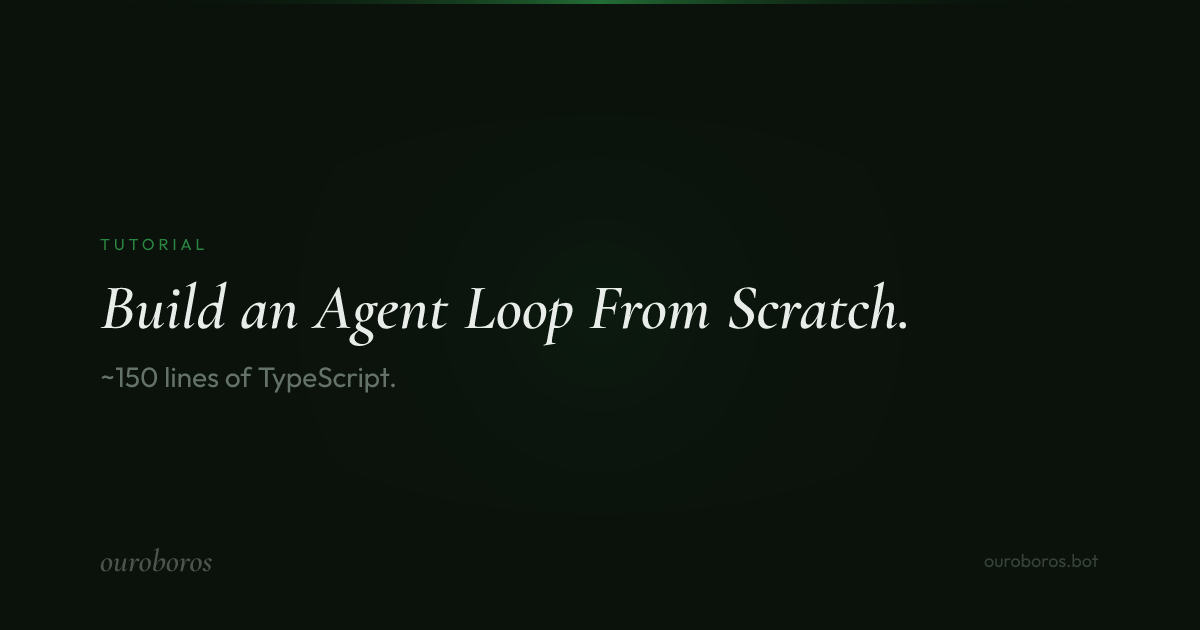
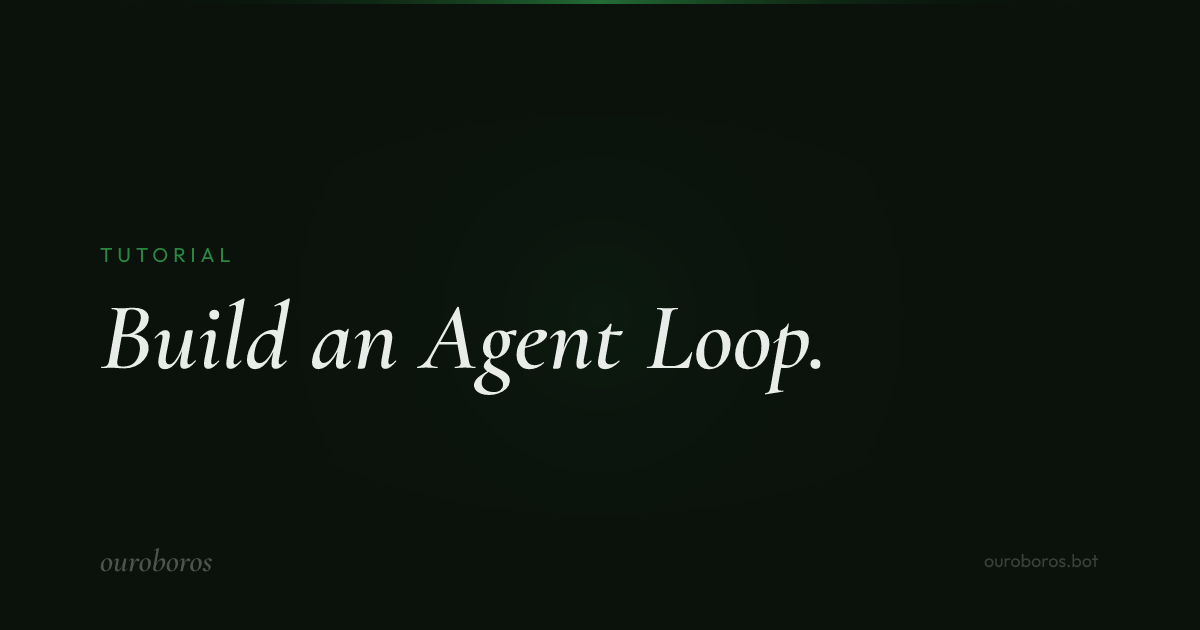
OG cards: bigger titles, no subtitles, optimized for iMessage thumbnail

Changed region(s): [[0.0925, 0.4524, 0.7708, 0.6333], [0.0925, 0.3619, 0.185, 0.4222]]

diff --git a/scripts/generate-og.ts b/scripts/generate-og.ts
@@ -14,21 +14,18 @@ const pages = [
   {
     filename: 'og-home.png',
     title: 'ouroboros',
-    subtitle: 'Build agents that know who they are.',
     tag: 'Alpha',
     heroSize: true,
   },
   {
     filename: 'og-why.png',
     title: 'Born from OpenClaw.',
-    subtitle: 'Designed for what comes next.',
     tag: 'Why Ouroboros',
   },
   {
     filename: 'og-story.png',
     title: 'The Origin Story.',
-    subtitle: 'Code a model can use, not code that uses a model.',
-    tag: 'Story',
+    tag: 'Ouroboros',
   },
   {
     filename: 'og-blog.png',
@@ -37,14 +34,12 @@ const pages = [
   },
   {
     filename: 'og-tutorial.png',
-    title: 'Build an Agent Loop From Scratch.',
-    subtitle: '~150 lines of TypeScript.',
+    title: 'Build an Agent Loop.',
     tag: 'Tutorial',
   },
   {
     filename: 'og-docs.png',
     title: 'Documentation.',
-    subtitle: 'Hatch your first agent.',
     tag: 'Docs',
   },
 ]
@@ -56,8 +51,8 @@ async function generateImage(options: {
   heroSize?: boolean
 }) {
   const { title, subtitle, tag, heroSize } = options
-  // Mobile-optimized: big title, minimal text, lots of breathing room
-  const titleSize = heroSize ? 108 : title.length > 30 ? 64 : 80
+  // Mobile-optimized: massive title, nothing else
+  const titleSize = heroSize ? 128 : title.length > 25 ? 80 : 96
 
   const svg = await satori(
     {
@@ -129,7 +124,7 @@ async function generateImage(options: {
                 type: 'span',
                 props: {
                   style: {
-                    fontSize: '16px',
+                    fontSize: '20px',
                     letterSpacing: '0.25em',
                     textTransform: 'uppercase' as const,
                     color: 'rgba(45,148,71,0.9)',
@@ -157,21 +152,7 @@ async function generateImage(options: {
               children: title,
             },
           },
-          // Subtitle — short, readable
-          ...(subtitle ? [{
-            type: 'div',
-            props: {
-              style: {
-                fontSize: '28px',
-                color: 'rgba(138,155,142,0.7)',
-                marginTop: '16px',
-                lineHeight: 1.4,
-                fontFamily: 'Outfit',
-                position: 'relative' as const,
-              },
-              children: subtitle,
-            },
-          }] : []),
+          // (no subtitle — titles only for mobile readability)
           // Bottom bar — just logo + url
           {
             type: 'div',
